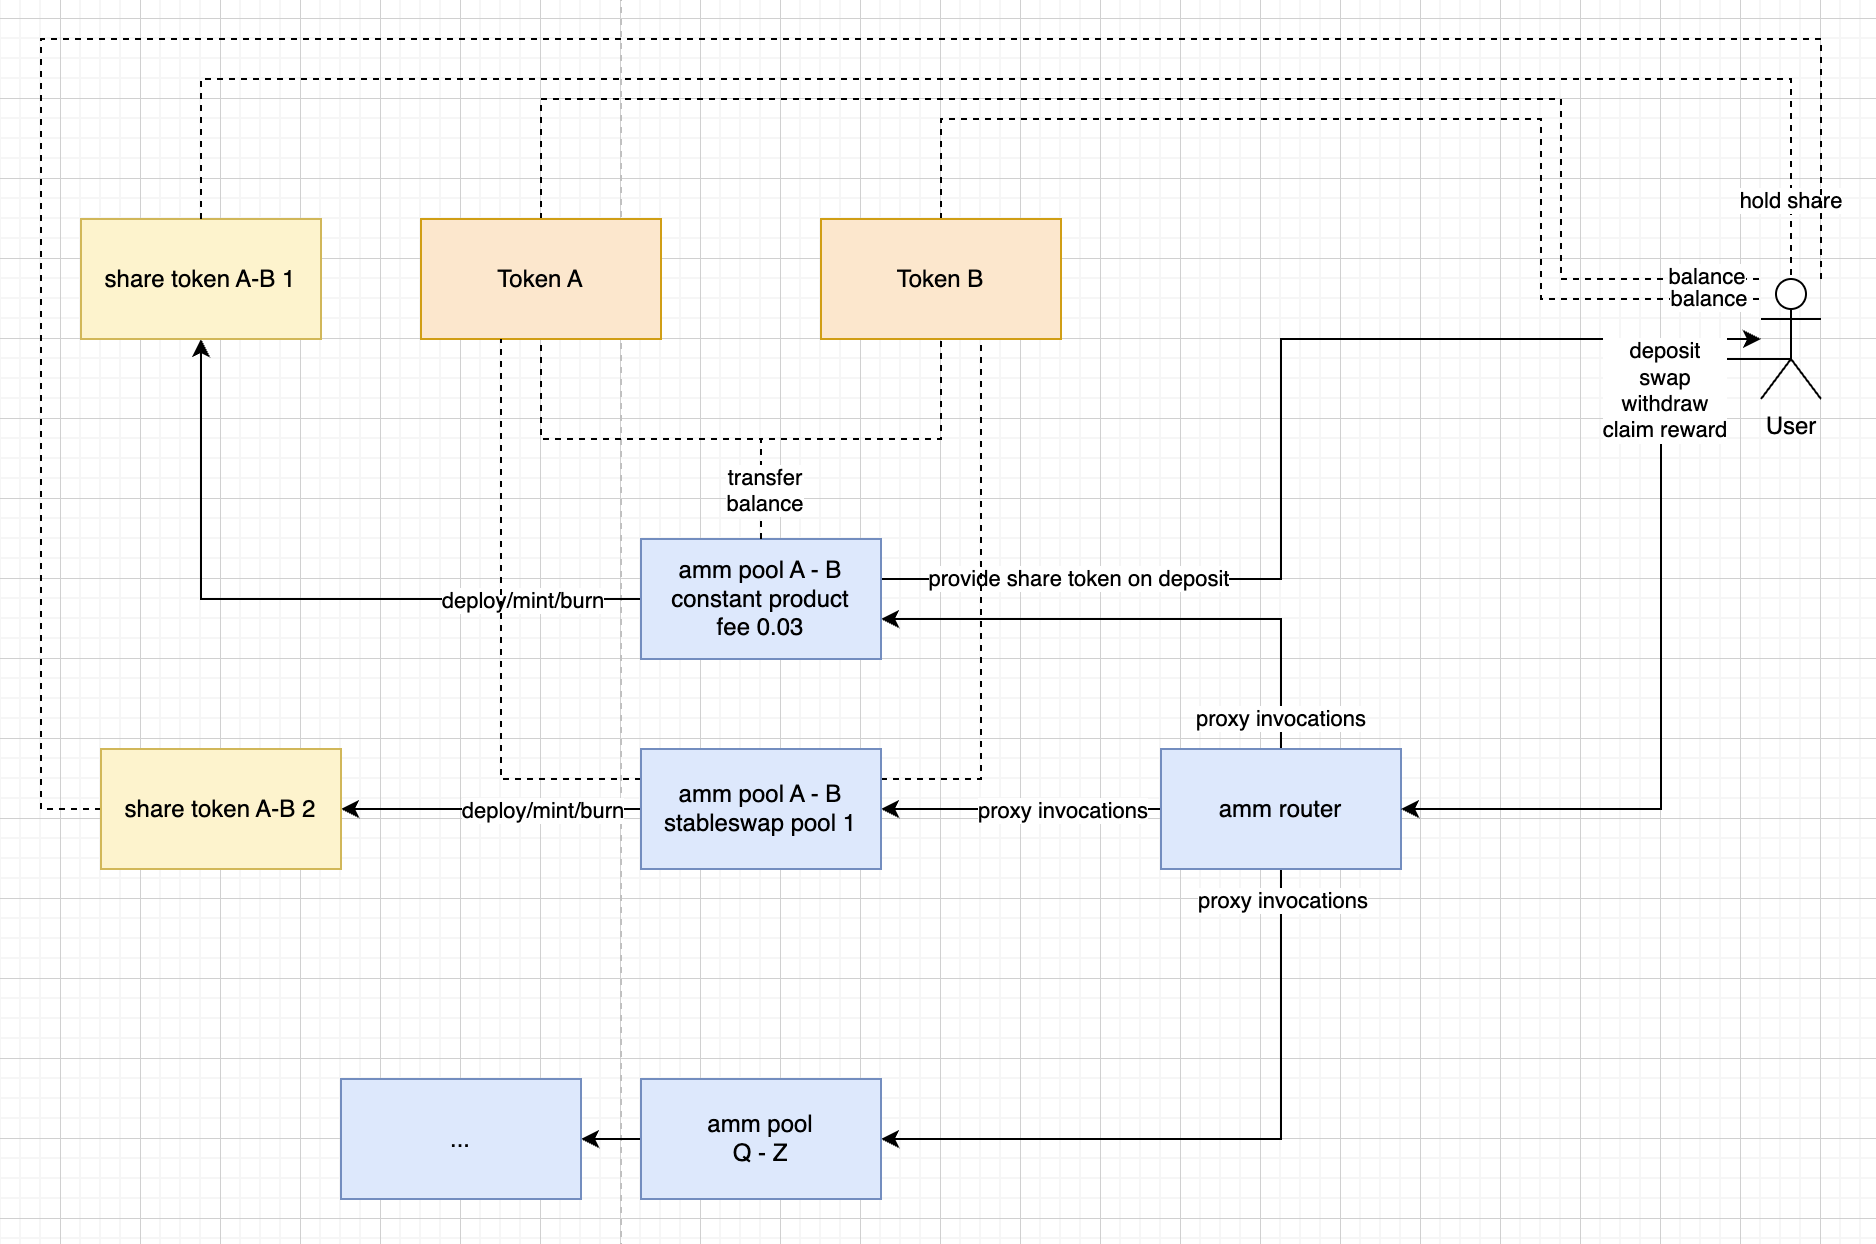
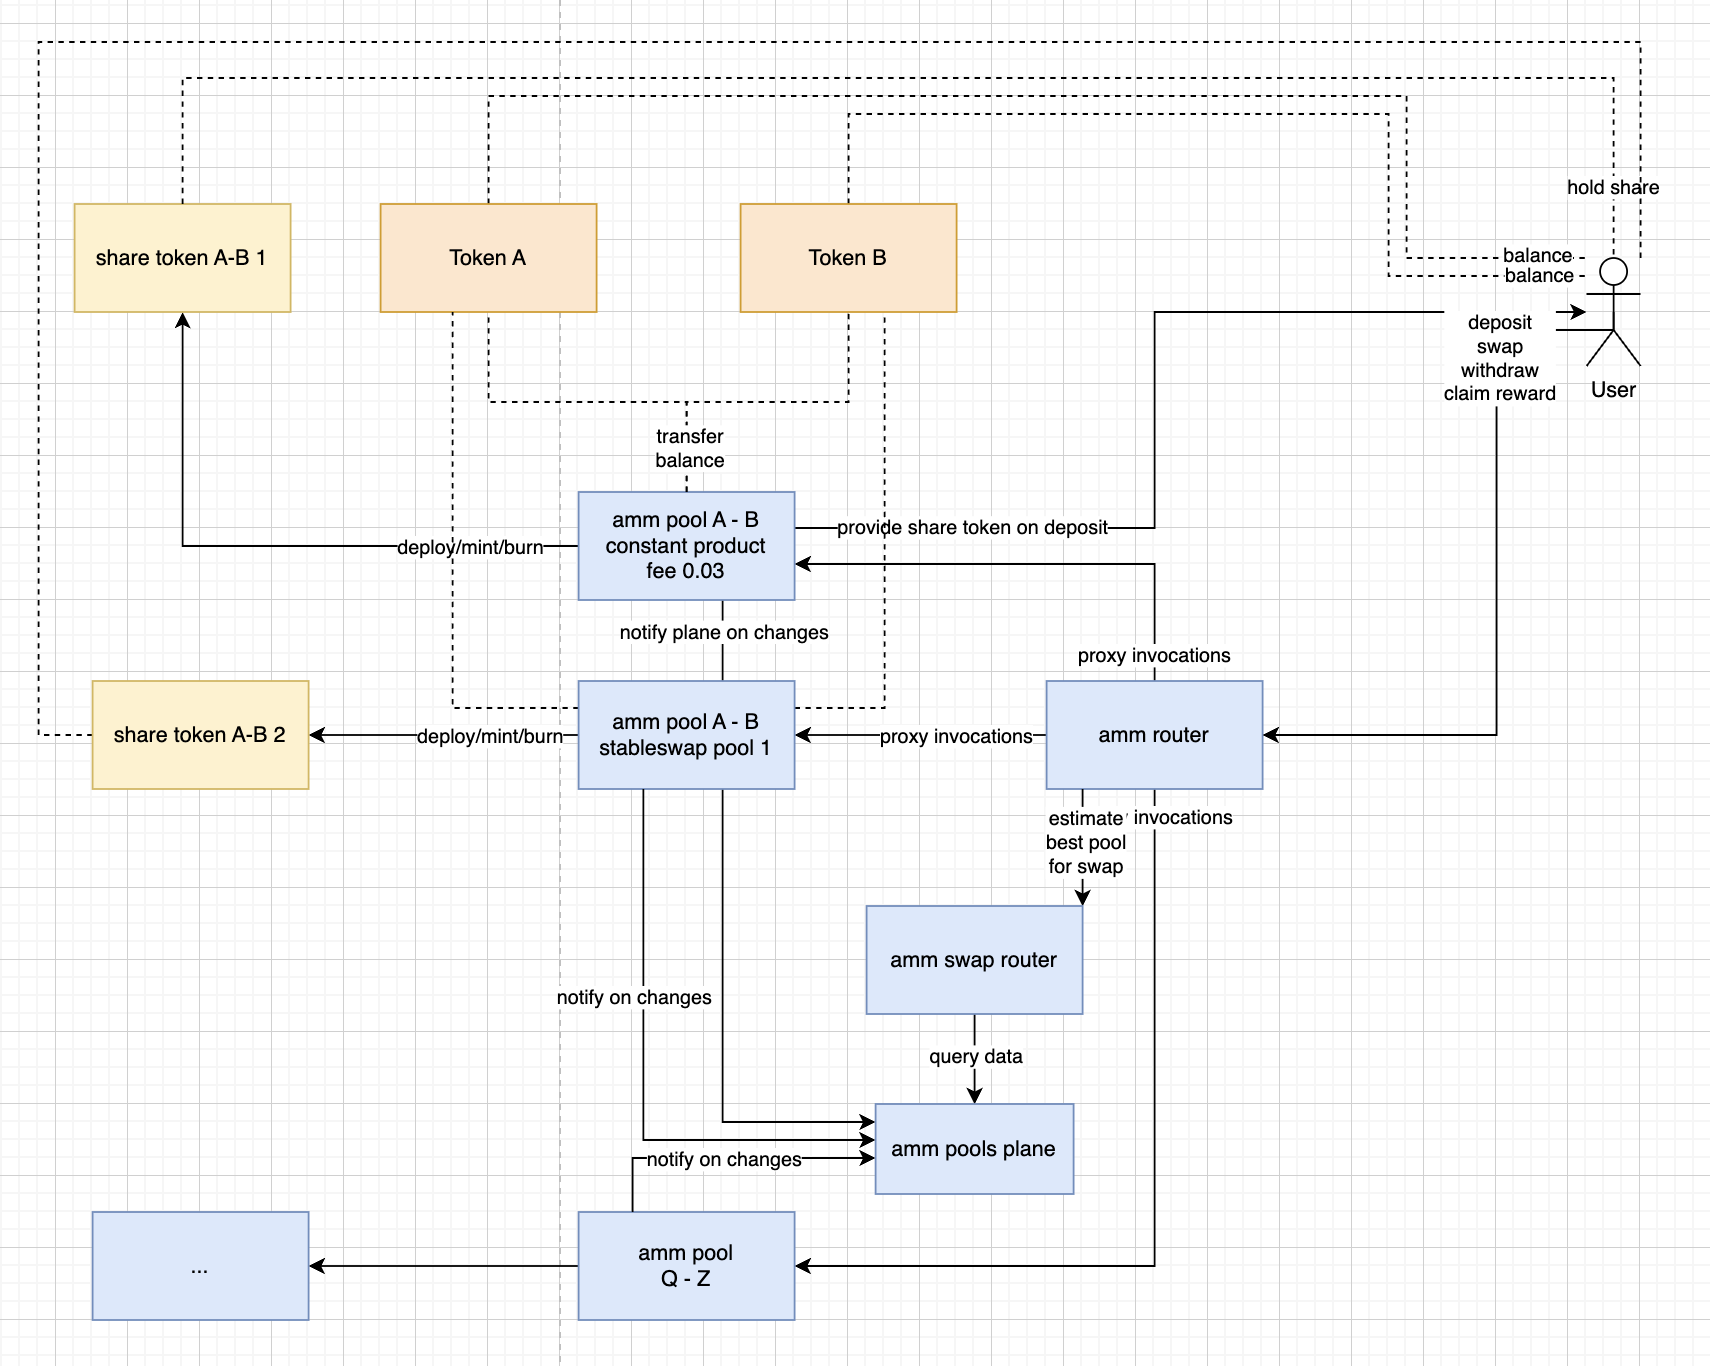
update documentation to reflect new contracts: readme, diagram, comments
(cherry picked from commit e5fdaea26d8808717b1337a9b3c16ea41d3fc8f5)

diff --git a/token/src/contract.rs b/token/src/contract.rs
@@ -1,5 +1,4 @@
-//! This contract demonstrates a sample implementation of the Soroban token
-//! interface.
+//! Implementation of the Soroban token interface.
 use crate::allowance::{read_allowance, spend_allowance, write_allowance};
 use crate::balance::{read_balance, receive_balance, spend_balance};
 use crate::metadata::{read_decimal, read_name, read_symbol, write_metadata};

diff --git a/readme.md b/readme.md
@@ -75,6 +75,8 @@ We plan to use Soroban to build Automated Market Maker (AMM) smart contracts and
 - **liquidity_pool_stableswap** - Exchange liquidity pool designed for extremely efficient stablecoin trading and low risk, supplemental fee income for liquidity providers, without an opportunity cost. It allows users to trade between correlated cryptocurrencies with a bespoke low slippage, low fee algorithm.
 - **token** - [SEP-0041](https://github.com/stellar/stellar-protocol/blob/master/ecosystem/sep-0041.md) compatible token smart contract designed for liquidity pool share management
 - **liquidity_pool_router** - entry point and catalogue of liquidity pools which is capable to deploy new pools if necessary
+- **liquidity_pool_swap_router** - contract designed to store minimum information about any liquidity pool: type, parameters, reserves. being updated on every action with the pool (deposit, swap, withdraw, parameters update, etc)
+- **liquidity_pool_plane** - smart contract containing liquidity pools swap logic which is capable to estimate swap based on the information stored in liquidity pool plane for many pools at once
 
 [![Smart Contracts diagram][contracts-diagram]](https://aqua.network/)
 
